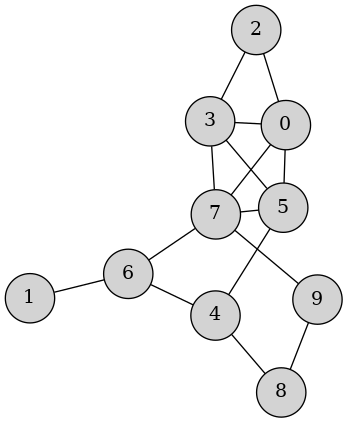
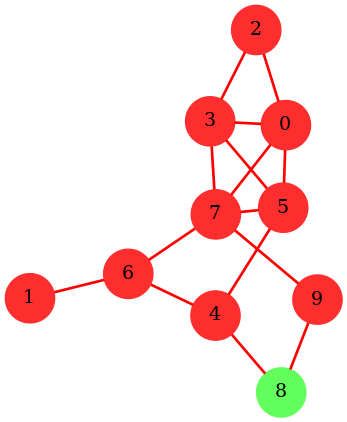
Versão mais estável com legendas

diff --git a/buscaLarg.py b/buscaLarg.py
@@ -192,16 +192,13 @@ def buscar_em_largura(window, caminho_imagem, matriz_adjacencia, vertice_inicial
                 elif n[1] == v.numero and n[0] not in v.adjacencia:
                     v.adjacencia.append(n[0])
 
-    # Seja v o primeiro elemento
-    # Talvez modificar pois está contando que os vértices serão enumerados e não nomeado
-    primeiro_vertice = vertice_inicial
-
     # Cria e insere o vértice inicial na fila duplamente encadeada e na arvóre
-    fila = deque([vertices[primeiro_vertice]])
-    vertices[primeiro_vertice].marcado = True
-    vertices_enfileirados.append(vertices[primeiro_vertice].numero)
-    vertices_visitados.append(vertices[primeiro_vertice].numero)
-    colocar_arv(arvore, None, primeiro_vertice)
+    fila = deque([vertices[vertice_inicial]])
+    vertices[vertice_inicial].marcado = True
+    vertices[vertice_inicial].nivel_na_arvore = 1  # Vértice raiz da árvore de busca
+    vertices_enfileirados.append(vertices[vertice_inicial].numero)
+    vertices_visitados.append(vertices[vertice_inicial].numero)
+    colocar_arv(arvore, None, vertice_inicial)
 
     # Enquanto existir a fila
     while fila:
@@ -241,6 +238,10 @@ def buscar_em_largura(window, caminho_imagem, matriz_adjacencia, vertice_inicial
                     arestas_visitadas.append(aresta_escolhida)
 
                     colocar_arv(arvore, vertice_atual.numero, vertices[vizinho].numero, "orange")
+                    for c in vertices:
+                        print(c.nivel_na_arvore)
+
+
                     # ! Aresta Especial
                     # verificar nível dos nós e verificar se v e w possuem o mesmo pai, pois cada situação gerará um tipo de aresta
                     """
@@ -316,7 +317,8 @@ def interface_buscaLarg(grafo):
               [sg.Push(), sg.Text('Legenda de arestas:'), sg.Push()],
               [sg.Text('', background_color='green'), sg.Text('Em processo de visita ', pad=(0, 0)),
                sg.Text('', background_color='red'), sg.Text('Visitadas ', pad=(0, 0)),
-               sg.Text('', background_color='orange'), sg.Text('Primo ', pad=(0, 0))],
+               sg.Text('', background_color='orange'), sg.Text('Primo ', pad=(0, 0)),
+               sg.Text('', background_color='black'), sg.Text('De árvore ', pad=(0, 0))],
               [sg.Push(), sg.Text('Legenda de vértices:'), sg.Push()],
               [sg.Text('', background_color='green'), sg.Text('Em processo de visita ', pad=(0, 0)),
                sg.Text('', background_color='red'), sg.Text('Totalmente explorados ', pad=(0, 0))],

diff --git a/faz_arvore.py b/faz_arvore.py
@@ -1,6 +1,4 @@
 import networkx as nx
-import matplotlib.pyplot as plt
-import time
 import PySimpleGUI as sg
 
 """
@@ -24,6 +22,7 @@ def adicionar_filho(arvore, pai, filho, cor, nome_imagem):
     return arvore
 """
 
+
 def adicionar_filho(arvore, pai, filho, cor):
     if not arvore.has_node(filho):
         arvore.add_node(filho)
@@ -33,7 +32,6 @@ def adicionar_filho(arvore, pai, filho, cor):
         print("Erro: O nó pai não existe na árvore.")
         arvore.add_node(filho)
         print("Portanto o nó foi adicionado como filho")
-
 
     # Converter para um grafo PyGraphviz
     G = nx.nx_agraph.to_agraph(arvore)
@@ -55,7 +53,6 @@ def arvore_test():
     arvore = nx.Graph()
 
     # Adicionar um nó raiz (neste caso, o vértice 1)
-
 
     layout = [[sg.Image(key="-IMAGE-")],
             [sg.Text('Pai:'), sg.InputText(key='pai')],
